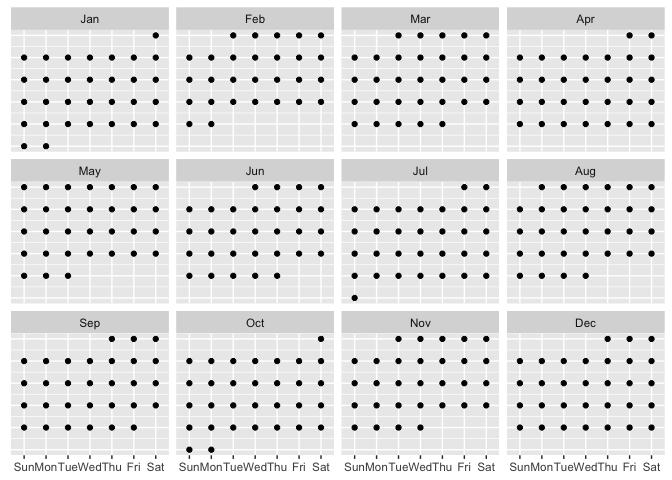
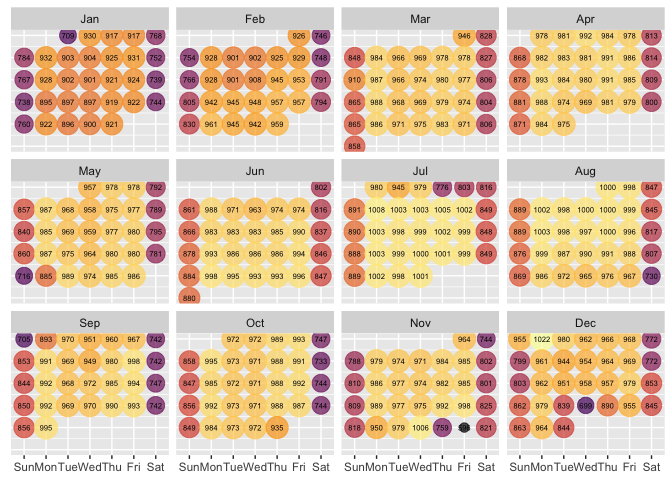
flights example

diff --git a/README.md b/README.md
@@ -9,7 +9,7 @@
 experimental](https://img.shields.io/badge/lifecycle-experimental-orange.svg)](https://lifecycle.r-lib.org/articles/stages.html#experimental)
 <!-- badges: end -->
 
-Create grammar of graphics calendars.
+Create grammar-of-graphics calendars.
 
 ``` r
 library(ggcalendar)
@@ -104,7 +104,34 @@ ggcalendar(ggcalendar::return_dates_interval(start_date = "2022-07-01", end_date
                       size = 10, shape = "x")
 ```
 
-<img src="man/figures/README-example2-1.png" width="100%" />
+<img src="man/figures/README-example2-1.png" width="100%" /> \# NYC
+flights
+
+> Airline on-time data for all flights departing NYC in 2013. Also
+> includes useful ‘metadata’ on airlines, airports, weather, and planes.
+
+Data inspiration:
+<https://twitter.com/rappa753/status/1545729747774308354> @rappa753
+
+``` r
+
+# example 
+nycflights13::flights %>% 
+  ungroup() %>% 
+  mutate(date = as.Date(time_hour)) %>% 
+  filter(year(date) == 2013) %>% 
+  count(date) %>% 
+  ggcalendar() +
+  geom_point_calendar(data = . %>% tibble(), aes(size = n, 
+                          color = n), 
+                      alpha = .7, show.legend = F) + 
+  scale_color_viridis_c(option = "inferno", direction = 1) + 
+  scale_size(range = c(3,8)) +
+  geom_text_calendar(aes(label = n), size = 2) + 
+  NULL
+```
+
+<img src="man/figures/README-unnamed-chunk-4-1.png" width="100%" />
 
 -----
 
@@ -145,8 +172,7 @@ compute_group_calendar <- function(data, scales){
                              6, 1, 0)) %>%
     dplyr::mutate(academic_month = .data$month %>%
                     factor(levels = c("Jul", "Aug", "Sep", "Oct", "Nov", "Dec",
-                                      "Jan", "Feb", "Mar", "Apr", "May", "Jun"))) %>%
-    dplyr::mutate(label = .data$date_of_month)
+                                      "Jan", "Feb", "Mar", "Apr", "May", "Jun")))
 
 }
 
@@ -155,7 +181,8 @@ StatCalendar <- ggplot2::ggproto(`_class` = "StatCalendar",
                                  required_aes = c("date"),
                                  compute_group = compute_group_calendar,
                                  default_aes = ggplot2::aes(x = ggplot2::after_stat(day_of_week),
-                                                            y = ggplot2::after_stat(week_of_month)))
+                                                            y = ggplot2::after_stat(week_of_month),
+                                                            label = ggplot2::after_stat(date_of_month)))
 ```
 
 ``` r
@@ -170,13 +197,13 @@ compute_group_calendar()
 #> 4 1999-01-04               2         Mon             1             4        -19
 #> 5 1999-01-05               3         Tue             1             5        -19
 #> 6 1999-01-06               4         Wed             1             6        -19
-#>   month hour academic_year academic_month label
-#> 1   Jan    0          1999            Jan     1
-#> 2   Jan    0          1999            Jan     2
-#> 3   Jan    0          1999            Jan     3
-#> 4   Jan    0          1999            Jan     4
-#> 5   Jan    0          1999            Jan     5
-#> 6   Jan    0          1999            Jan     6
+#>   month hour academic_year academic_month
+#> 1   Jan    0          1999            Jan
+#> 2   Jan    0          1999            Jan
+#> 3   Jan    0          1999            Jan
+#> 4   Jan    0          1999            Jan
+#> 5   Jan    0          1999            Jan
+#> 6   Jan    0          1999            Jan
 ```
 
 ## How used in geom\_point\_calendar… default aes
